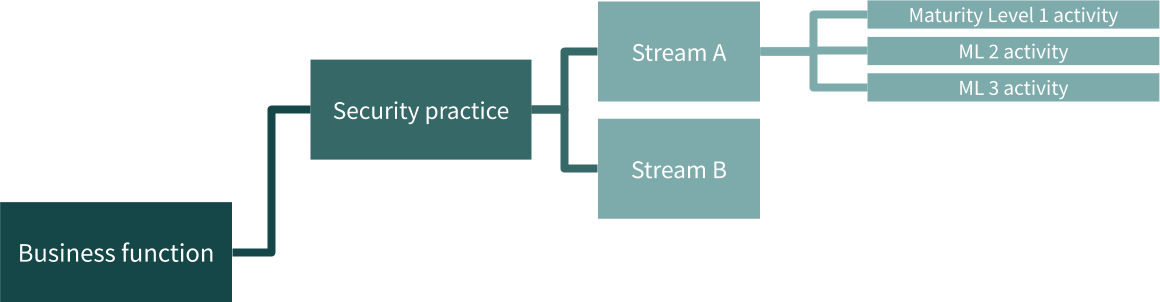
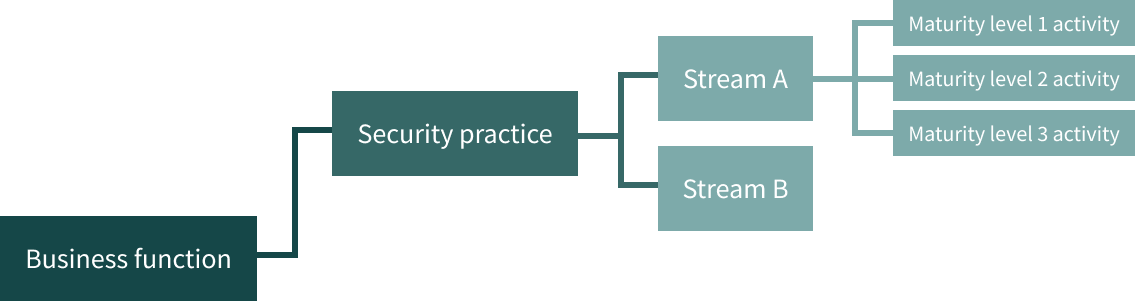
Updates SAMM model diagrams

Changed region(s): [[0.0, 0.0, 1.0, 1.0]]

diff --git a/content/en/release-notes-v2.md b/content/en/release-notes-v2.md
@@ -23,7 +23,7 @@ The 3 maturity levels remain as they were. Level 1 is initial implementation; le
 The version 2.0 model now supports frequent updates through small incremental changes on specific parts of the model with regular updates to explanations, tooling, and guidance by the community.
 
 This is the updated SAMM version 2 model:
-{{< responsive-image  "../img/v_2_0/Samm_v2.png" "SAMMv2 Overview">}}
+{{< responsive-image  "../img/v_2_0/SAMM_v2.png" "SAMM v2 structure overview">}}
 
 List of major changes:
 

diff --git a/content/en/about.md b/content/en/about.md
@@ -42,7 +42,7 @@ The structure and setup of the SAMM model support
 * the definition of an implementation roadmap to get there
 * prescriptive advice on how to implement particular activities
 
-
+{{< responsive-image  "../img/v_2_0/SAMM_v2.png" "SAMM v2 structure overview">}}
 
 ## Useful links
 
